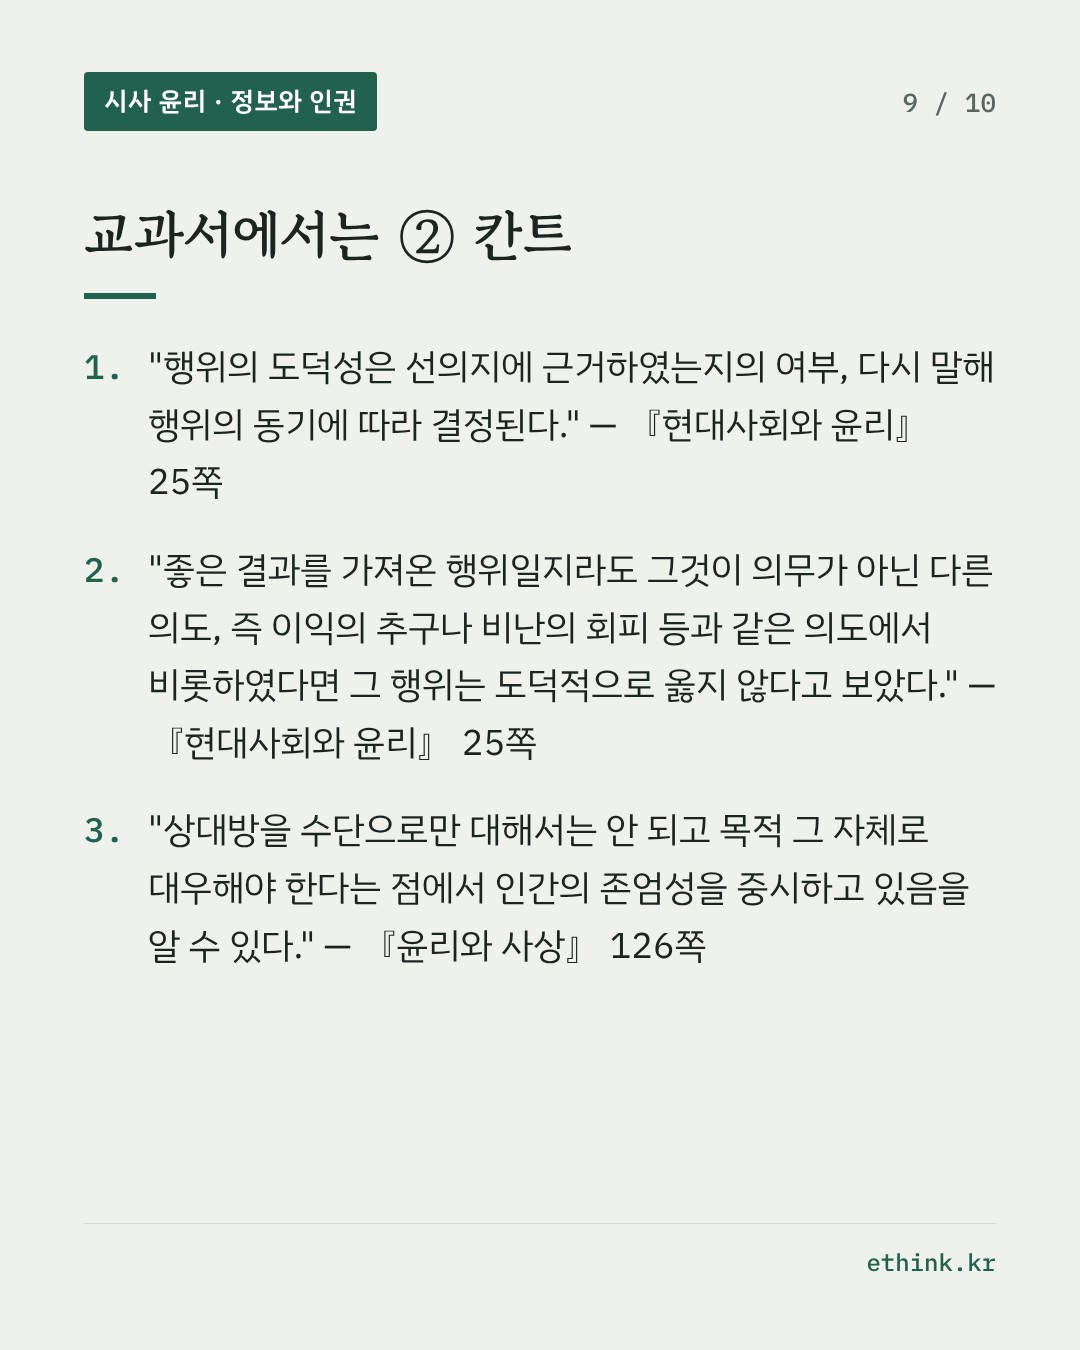
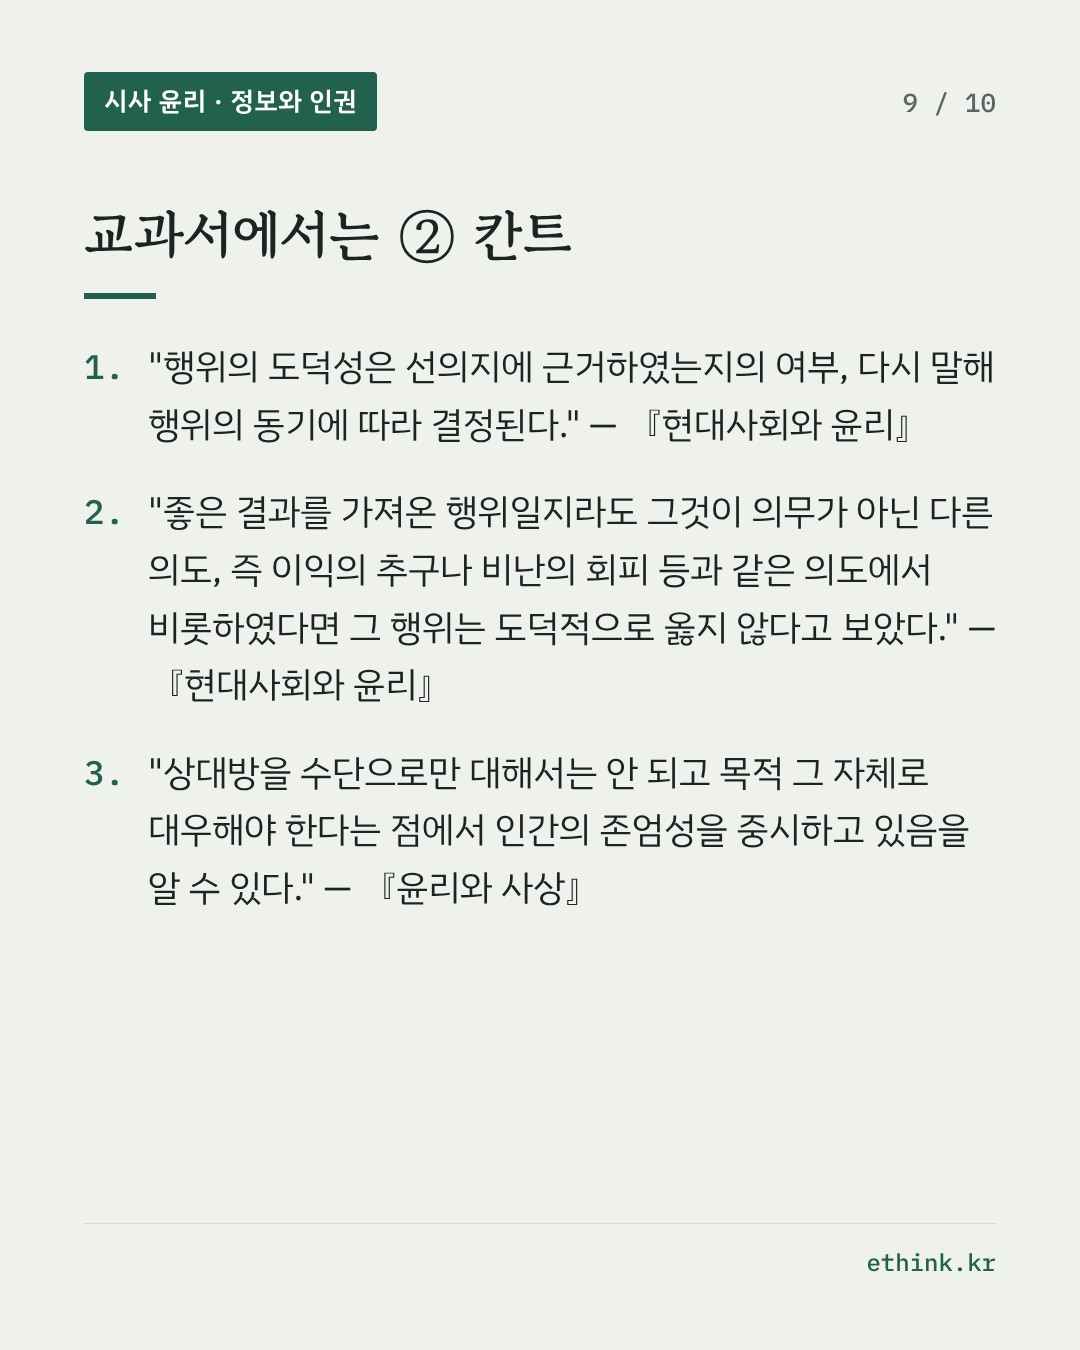
길벗이 아닌 교과서는 쪽수 표기 삭제(웹·카드·지침)
Claude-Session: https://claude.ai/code/session_015bQvLW38M9G43q7XUxVD63

Changed region(s): [[0.1222, 0.3422, 0.9167, 0.7156], [0.0611, 0.56, 0.0917, 0.6222], [0.0611, 0.4044, 0.0917, 0.4356]]

diff --git a/_tools/WRITING_GUIDE.md b/_tools/WRITING_GUIDE.md
@@ -38,7 +38,7 @@
 - 원문은 반드시 실제 텍스트에서 가져온다: 재형 님 옵시디언 볼트 `Vault/_library/`(책 OCR 원문, 읽기 전용)와 `Vault/textbook/`, 또는 확인 가능한 공개 원문. 기억으로 쓰거나 다듬어 만든 문장을 원문처럼 싣지 않는다. 찾지 못하면 그 자리에 `[원문 확인 필요: 사상가, 책, 찾을 대목]`을 남기고 보고한다.
 - 교과서 수록 원문이면 교과서와 사상가 책을 모두 출처로 적는다. 교과서는 『인문학과 윤리』(길벗) 80쪽처럼 (「수록」은 쓰지 않는다) 책 이름과 **쪽수**만 적고, 단원 이름이나 코너 이름(「사상으로 보는 윤리문제」, 「나의 인문학 노트」 등)은 적지 않는다. 쪽수는 Dropbox/AI 작업실/교과서 pdf로 콘텐츠 제작/의 교과서 PDF(한쪽보기)에서 pdftotext로 문장을 찾아 그 쪽에 인쇄된 번호로 확인한다. 단행본 『윤리 사상가로 읽는 통합사회』도 같은 방식으로 쪽수만 적는다(PDF: Dropbox/_드롭 창고/윤리 사상가로 읽는 통합사회 단행본 전체(표지포함).pdf, 두 쪽 펼침이라 인용문이 있는 쪽의 번호를 쓴다). 교과서가 아니면 사상가의 어느 책인지 밝힌다.
 - 원문을 찾는 순서: ① 볼트 `Vault/_library/`(재형 님 도서관 라이브러리)와 기출 문제 원문 자료집 → ② 실제 한국어 번역서에 실린 문장 → ③ 원어 원문을 검색해 직접 번역(번역했음을 출처에 밝힌다).
-- 출처에 타사 교과서 출판사 이름을 쓰지 않는다. 타사 교과서를 써야 하면 출판사 이름은 빼고 과목과 쪽수만 적는다(예: 『현대사회와 윤리』 교과서 25쪽, 『윤리와 사상』 교과서 126쪽). 길벗 교과서만 『인문학과 윤리』(길벗) 80쪽처럼 출판사를 밝힌다. 사상가의 원문(칸트, 플라톤 등)은 길벗 교과서에 한정하지 않고 『현대사회와 윤리』·『윤리와 사상』 등 다른 과목 교과서에서 사건에 더 알맞은 대목이 있으면 가져온다. 두 과목 교과서에 모두 해당하면 둘 다 쓴다. 쪽수는 Dropbox/AI 작업실/00_공통참고자료/검정교과서_윤리/ 의 교과서 PDF에서 pdftotext로 문장을 찾아 그 쪽의 인쇄된 번호로 확인한다(텍스트 파일 `_txt2022/`은 단 순서가 섞이므로 문장을 이어 붙일 때 PDF와 대조한다).
+- 출처에 타사 교과서 출판사 이름을 쓰지 않는다. 타사 교과서는 출판사 이름도 쪽수도 적지 않고 과목만 적는다(예: 『현대사회와 윤리』 교과서, 『윤리와 사상』 교과서). 출판사마다 쪽수가 달라 독자가 혼동하기 때문이다. 출판사명과 쪽수는 길벗 교과서일 때만 『인문학과 윤리』(길벗) 80쪽처럼 밝힌다. 인용 위치는 작업 중 PDF로 확인해 두되 글에는 쓰지 않는다. 사상가의 원문(칸트, 플라톤 등)은 길벗 교과서에 한정하지 않고 『현대사회와 윤리』·『윤리와 사상』 등 다른 과목 교과서에서 사건에 더 알맞은 대목이 있으면 가져온다. 두 과목 교과서에 모두 해당하면 둘 다 쓴다. 쪽수는 Dropbox/AI 작업실/00_공통참고자료/검정교과서_윤리/ 의 교과서 PDF에서 pdftotext로 문장을 찾아 그 쪽의 인쇄된 번호로 확인한다(텍스트 파일 `_txt2022/`은 단 순서가 섞이므로 문장을 이어 붙일 때 PDF와 대조한다).
 
 ## 5. 수업에서 쓰는 법
 - 설명과 함께 도식을 넣는다: `<figure class="fig"><p class="fig-title">수업 흐름</p><ol class="flow"><li><span class="flow-step">단계</span><span class="flow-desc">설명</span></li>…</ol></figure>`. 개념 대비는 `<div class="scale">`(scale-cell, scale-arrow, scale-cell-strong), 표는 `<table class="tbl">`. 기존 `_items/2026-10-16/*.md`를 본보기로 삼는다.

diff --git a/_items/2026-10-24/1.md b/_items/2026-10-24/1.md
@@ -74,7 +74,7 @@ og_image: /assets/og/2026-10-24-1.jpg
 <blockquote>
 <p>플라톤은 인간의 영혼을 구성하는 각 부분이 그 기능을 잘 발휘하면 기게스의 반지를 끼고서도 정의로울 수 있다고 보았다.</p>
 </blockquote>
-<figcaption>『윤리와 사상』 교과서 96쪽</figcaption>
+<figcaption>『윤리와 사상』 교과서</figcaption>
 </figure>
 
 『현대사회와 윤리』 교과서는 이 이야기를 온라인의 익명성과 이어서 풉니다.
@@ -83,7 +83,7 @@ og_image: /assets/og/2026-10-24-1.jpg
 <blockquote>
 <p>최근 증가하고 있는 사이버 폭력은 기게스의 반지를 떠오르게 한다. 누리꾼들이 기게스의 반지를 끼고 익명성 뒤에 숨어 거리낌 없이 악행을 저지르고 있는 모습이 연상된다. (…) 익명성 뒤에 숨을 수 있을지라도 인간은 내면의 도덕성으로 다른 사람과 사회에 해악을 끼치지 않을 수 있다는 것이다.</p>
 </blockquote>
-<figcaption>『현대사회와 윤리』 교과서 92쪽</figcaption>
+<figcaption>『현대사회와 윤리』 교과서</figcaption>
 </figure>
 
 개인정보를 다루는 사람의 조회 화면도 일종의 익명성입니다. 화면 뒤에서 누가 무엇을 보는지 다른 사람은 알기 어렵기 때문입니다.
@@ -105,7 +105,7 @@ og_image: /assets/og/2026-10-24-1.jpg
 <blockquote>
 <p>행위의 도덕성은 선의지에 근거하였는지의 여부, 다시 말해 행위의 동기에 따라 결정된다. 그러므로 칸트는 좋은 결과를 가져온 행위일지라도 그것이 의무가 아닌 다른 의도, 즉 이익의 추구나 비난의 회피 등과 같은 의도에서 비롯하였다면 그 행위는 도덕적으로 옳지 않다고 보았다.</p>
 </blockquote>
-<figcaption>『현대사회와 윤리』 교과서 25쪽</figcaption>
+<figcaption>『현대사회와 윤리』 교과서</figcaption>
 </figure>
 
 여기서 '선의지'는 어떤 행위가 옳다는 이유만으로 그 행위를 하려는 의지입니다.
@@ -129,7 +129,7 @@ og_image: /assets/og/2026-10-24-1.jpg
 <blockquote>
 <p>두 번째 정언 명령은 사람과의 관계에서 상대방을 수단으로만 대해서는 안 되고 목적 그 자체로 대우해야 한다는 점에서 인간의 존엄성을 중시하고 있음을 알 수 있다.</p>
 </blockquote>
-<figcaption>『윤리와 사상』 교과서 126쪽</figcaption>
+<figcaption>『윤리와 사상』 교과서</figcaption>
 </figure>
 
 이 원칙에 비추어 보면 두 경우가 모두 문제입니다. 헤어진 연인의 병력과 소득이 드러나는 기록을 몰래 열어 보는 일은 그 사람의 사생활을 내 호기심을 채우는 데 쓰는 일입니다. 가입자 정보를 돈을 받고 넘기는 일은 정보에 담긴 사람의 삶을 내 이익을 위한 물건처럼 쓰는 일입니다. 둘 다 정보 속 당사자를 도구로만 대하는 일이고, 그 사람의 존엄성을 존중하지 않는 일입니다. 이 판단은 감시가 있든 없든 달라지지 않습니다.
